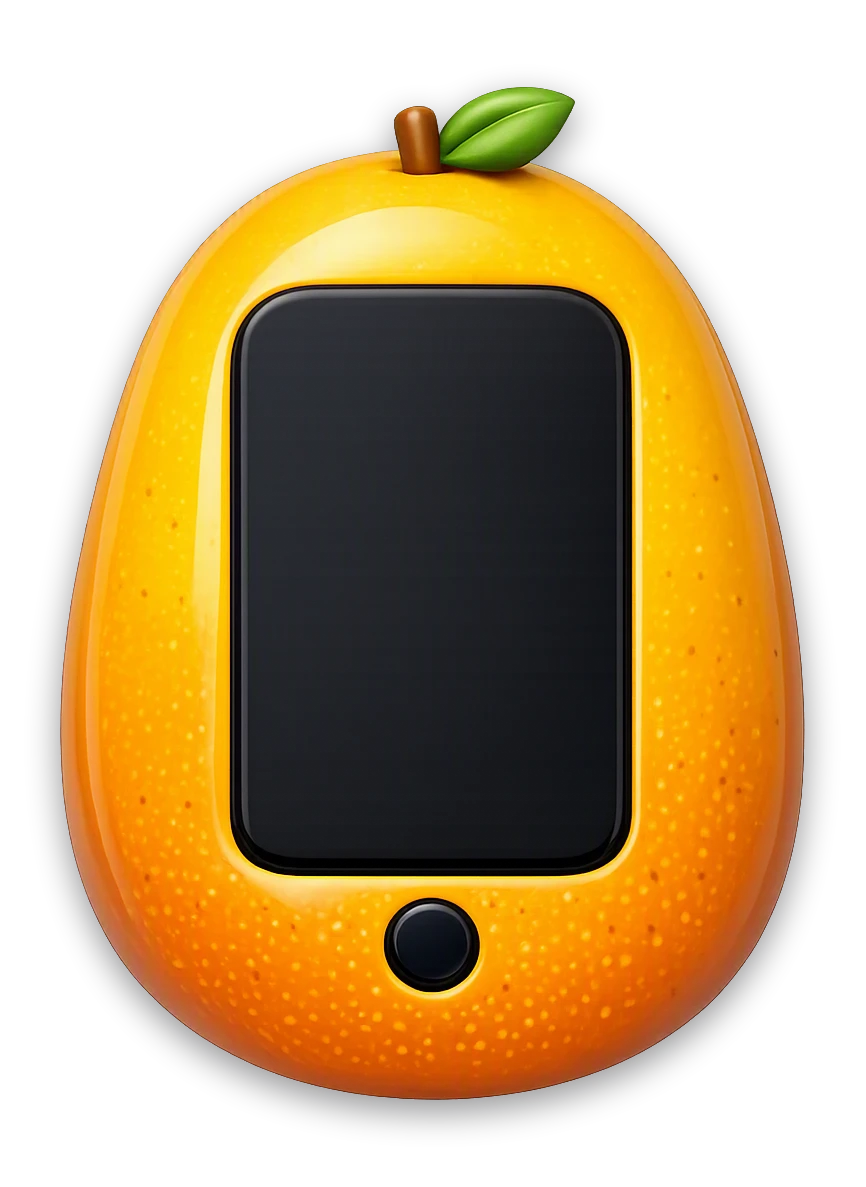
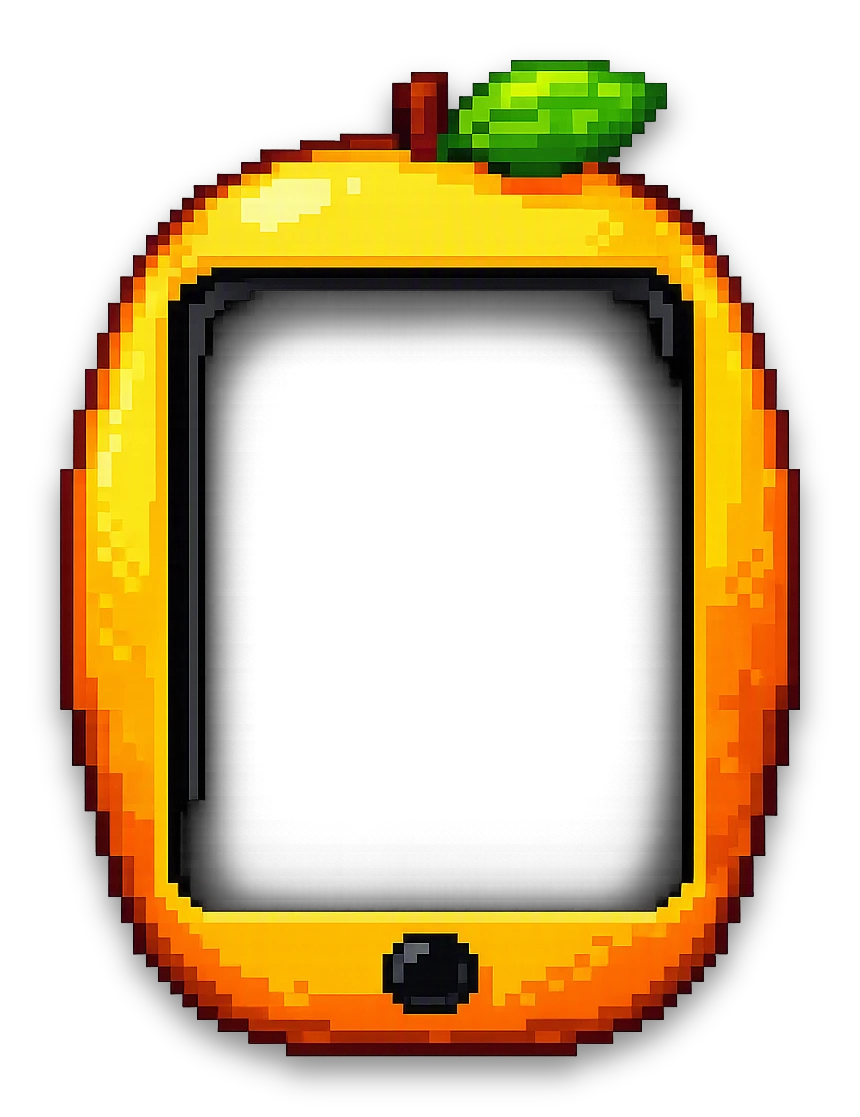
mango pixel art, pantalla más grande

diff --git a/mobile-app/index.html b/mobile-app/index.html
@@ -175,7 +175,7 @@
   .phone-flipper {
     position: relative;
     width: 452px;
-    height: 620px;
+    height: 587px;
     transform-style: preserve-3d;
     cursor: grab;
   }
@@ -213,9 +213,10 @@
   .phone {
     position: absolute;
     width: 452px;
-    height: 620px;
-    /* Mango body — 3D render, shadow baked into the image */
+    height: 587px;
+    /* Mango body — pixel art, shadow baked into the image */
     background: url('assets/mango-front.webp') center / 100% 100% no-repeat;
+    image-rendering: pixelated;
     backface-visibility: hidden;
     -webkit-backface-visibility: hidden;
     transform: translateZ(5px);
@@ -231,7 +232,7 @@
   .phone-back {
     position: absolute;
     width: 452px;
-    height: 620px;
+    height: 587px;
     border-radius: 0;
     backface-visibility: hidden;
     -webkit-backface-visibility: hidden;
@@ -244,8 +245,9 @@
     width: 100%;
     height: 100%;
     position: relative;
-    /* Mango body back — 3D render, shadow baked into the image */
+    /* Mango body back — pixel art, shadow baked into the image */
     background: url('assets/mango-back.webp') center / 100% 100% no-repeat;
+    image-rendering: pixelated;
   }
 
   /* Hide the old iPhone-shell detailing — the mango render replaces it all */
@@ -510,15 +512,15 @@
 
   .phone__screen-slot {
     position: absolute;
-    left: 123.2px;
-    top: 151.5px;
+    left: 104.1px;
+    top: 151.9px;
     width: 290px;
     height: 434px;
-    transform: scale(0.7137, 0.7033);
+    transform: scale(0.8844, 0.7569);
     transform-origin: top left;
     background: #000;
     overflow: hidden;
-    border-radius: 20px;
+    border-radius: 10px;
     /* deep inset shadows — screen set into the mango body */
     box-shadow:
       inset 0 3px 10px rgba(0,0,0,0.85),
@@ -536,8 +538,8 @@
 
   .phone__home-btn {
     position: absolute;
-    left: 49.77%;
-    top: 494px;
+    left: 50.06%;
+    top: 512px;
     transform: translate(-50%, -50%);
     width: 64px; height: 64px;
     border-radius: 50%;
@@ -3662,10 +3664,10 @@ document.addEventListener('DOMContentLoaded', () => {
     const hFactor = isMobile ? 0.82 : isTablet ? 0.85 : 0.97;
     const maxScale = isMobile ? 1.10 : isTablet ? 1.30 : 1.55;
     const scaleW = (vw * wFactor) / 452;
-    const scaleH = (vh * hFactor) / 650;
+    const scaleH = (vh * hFactor) / 617;
     // Ensure enough space below centered phone for flip hint + back button
     const uiBelow = isMobile ? 70 : isTablet ? 50 : 25;
-    const scaleUI = (vh - 2 * uiBelow) / 620;
+    const scaleUI = (vh - 2 * uiBelow) / 587;
     const scale = Math.min(scaleW, scaleH, maxScale, scaleUI);
     document.documentElement.style.setProperty('--phone-scale', scale.toFixed(3));
 
@@ -3674,7 +3676,7 @@ document.addEventListener('DOMContentLoaded', () => {
     const phoneScene = document.querySelector('.phone-scene');
     const mobileUp = isMobile ? 20 : 0;
     if (phoneScene && scale < 1) {
-      const compensation = 310 * (1 - scale);
+      const compensation = 293.5 * (1 - scale);
       phoneScene.style.marginTop = -(compensation + mobileUp) + 'px';
       phoneScene.style.marginBottom = -(compensation - mobileUp) + 'px';
     } else if (phoneScene && isMobile) {
@@ -11811,7 +11813,7 @@ notes to self:
     const rect = phoneEl.getBoundingClientRect();
     const scale = parseFloat(getComputedStyle(document.documentElement).getPropertyValue('--phone-scale')) || 1.5;
     const visualW = 452 * scale;
-    const visualH = 620 * scale;
+    const visualH = 587 * scale;
     const phoneCenterX = rect.left + rect.width / 2;
     const phoneCenterY = rect.top + rect.height / 2;
     const phoneLeft = phoneCenterX - visualW / 2;
